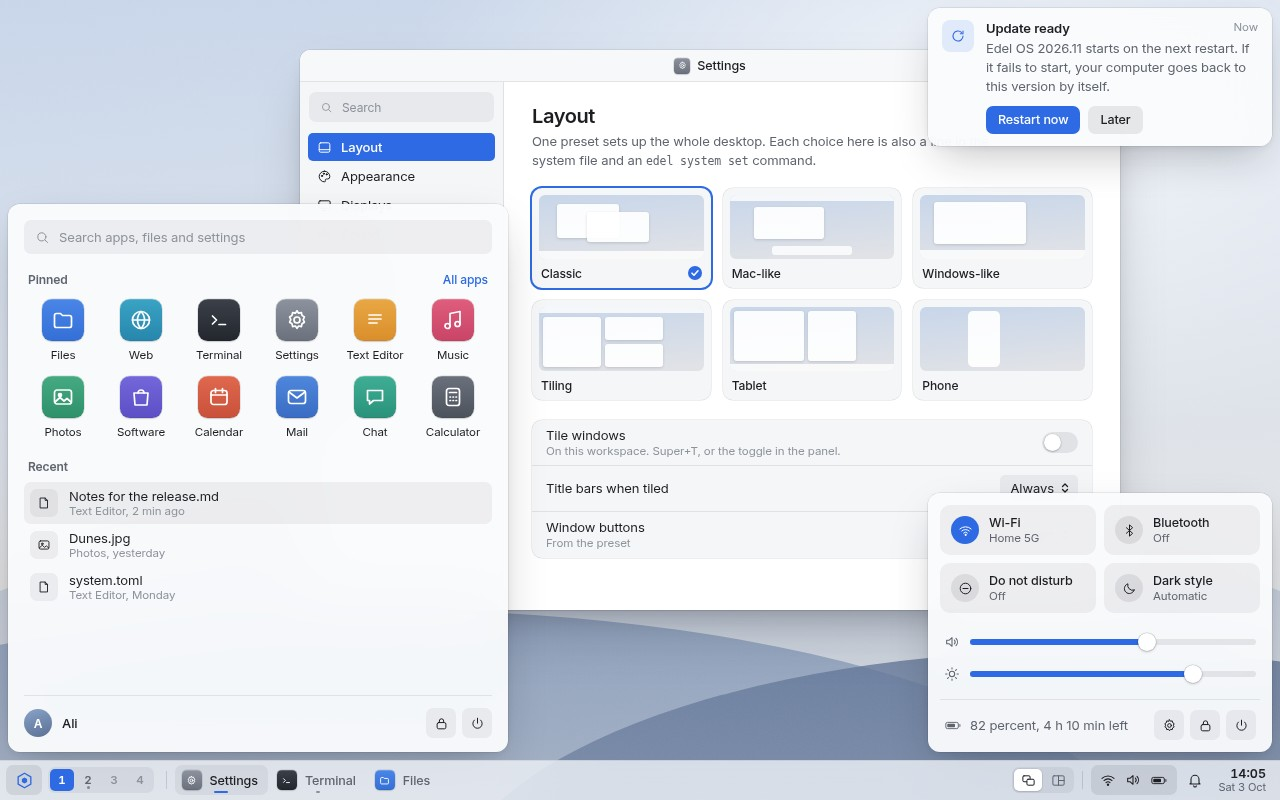
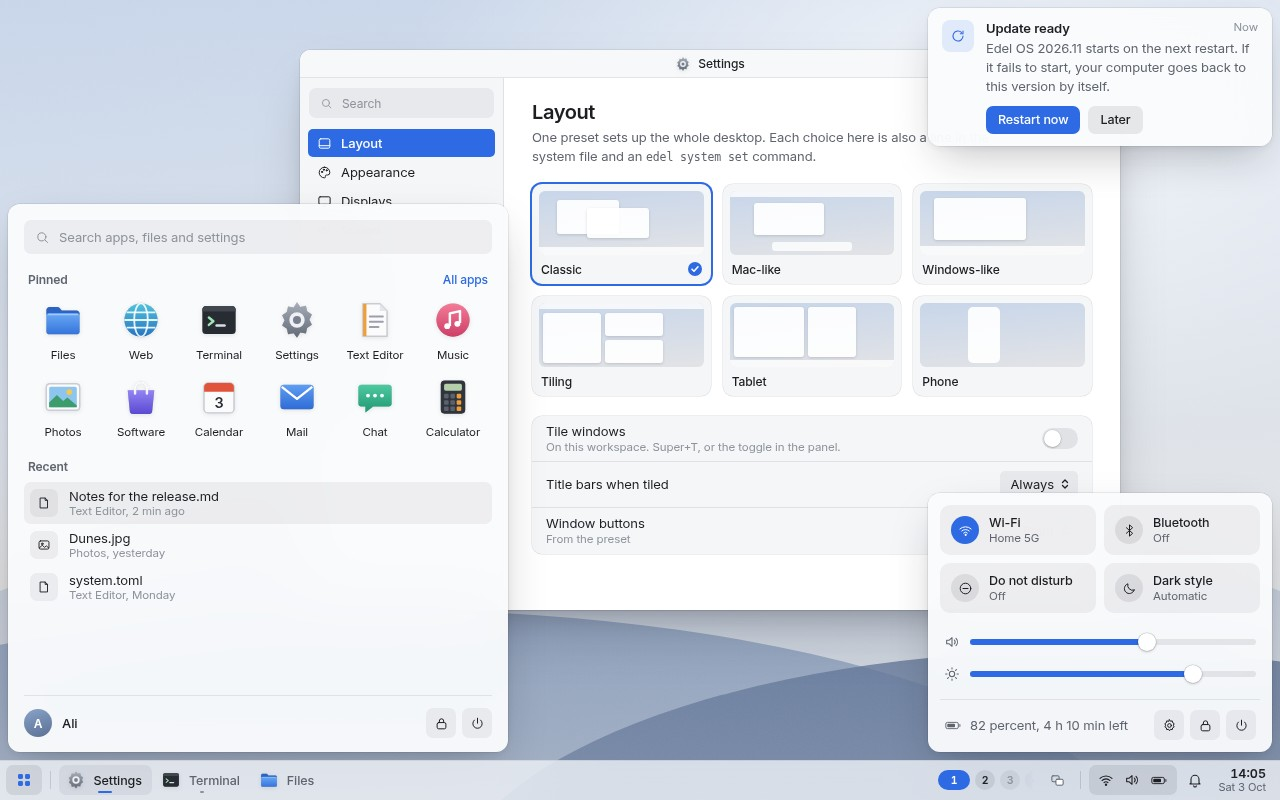
Retouch the mockups after Alimardon's second review
Alimardon asked for the first round's four-square menu button, round
workspace buttons on the right with at most three shown and the rest a
scroll away, one floating or tiling button that changes its icon and
fills when tiled, thinner title bars, and something less off about the
app icons. The icons are now drawn as objects (a folder, a globe, a
gear), each lit from above, instead of glyphs on coloured tiles, and the
panel loses its grey boxes. The plan's default look row and M5.3 follow.

Claude-Session: https://claude.ai/code/session_01BKmt1qoa5mKGyQ4ytiEsKo

diff --git a/docs/mockups/edel-mockups.html b/docs/mockups/edel-mockups.html
@@ -83,15 +83,15 @@ svg { display: block; }
 /* Windows */
 .win { position: absolute; background: var(--win); border-radius: var(--r-win); box-shadow: var(--shadow-win-2); overflow: hidden; }
 .win.focused { box-shadow: var(--shadow-win); }
-.titlebar { height: 32px; background: var(--bar); display: flex; align-items: center; justify-content: center; position: relative; color: var(--text-3); font-weight: 500; font-size: 12.5px; border-bottom: 0.5px solid var(--line); }
+.titlebar { height: 28px; background: var(--bar); display: flex; align-items: center; justify-content: center; position: relative; color: var(--text-3); font-weight: 500; font-size: 12px; border-bottom: 0.5px solid var(--line); }
 .win.focused .titlebar { background: var(--bar-focused); color: var(--text); }
-.titlebar .buttons { position: absolute; right: 6px; top: 0; height: 32px; display: flex; align-items: center; gap: 2px; }
+.titlebar .buttons { position: absolute; right: 5px; top: 0; height: 28px; display: flex; align-items: center; gap: 2px; }
 .titlebar.left .buttons { right: auto; left: 6px; flex-direction: row-reverse; }
-.tb { width: 26px; height: 22px; border-radius: var(--r-sm); display: grid; place-items: center; color: var(--text-2); }
+.tb { width: 24px; height: 20px; border-radius: var(--r-sm); display: grid; place-items: center; color: var(--text-2); }
 .win:not(.focused) .tb { color: var(--text-3); }
 .tb.hot { background: var(--close); color: #fff; }
 .titlebar .title { display: flex; align-items: center; gap: 7px; }
-.winbody { position: absolute; top: 32px; left: 0; right: 0; bottom: 0; }
+.winbody { position: absolute; top: 28px; left: 0; right: 0; bottom: 0; }
 
 /* Panel */
 .panel { position: absolute; left: 0; right: 0; height: 40px; display: flex; align-items: center; padding: 0 6px; gap: 2px; background: var(--material); backdrop-filter: blur(30px) saturate(180%); -webkit-backdrop-filter: blur(30px) saturate(180%); box-shadow: inset 0 0.5px 0 var(--edge); }
@@ -111,20 +111,21 @@ svg { display: block; }
 .clock b { font-weight: 600; font-size: 12.5px; font-variant-numeric: tabular-nums; letter-spacing: 0; }
 .clock small { font-size: 11px; color: var(--text-2); font-variant-numeric: tabular-nums; }
 
-/* Workspaces: numbered buttons, Super+1 to 4. */
-.desks { display: flex; gap: 2px; padding: 2px; border-radius: var(--r-ctl); background: var(--fill); }
-.desk { width: 24px; height: 22px; border-radius: var(--r-sm); display: grid; place-items: center; font-size: 11.5px; font-weight: 600; color: var(--text-3); font-variant-numeric: tabular-nums; position: relative; }
-.desk.busy { color: var(--text-2); }
-.desk.busy::after { content: ""; position: absolute; bottom: 2px; width: 3px; height: 3px; border-radius: 50%; background: currentColor; opacity: .7; }
-.desk.on { background: var(--accent); color: var(--accent-text); }
-.desk.on::after { background: var(--accent-text); }
-/* Floating or tiling, for this workspace: Super+T. */
-.seg { display: flex; gap: 2px; padding: 2px; border-radius: var(--r-ctl); background: var(--fill); }
-.seg .s { width: 28px; height: 22px; border-radius: var(--r-sm); display: grid; place-items: center; color: var(--text-2); }
-.seg .s.on { background: var(--thumb); color: var(--text); box-shadow: var(--shadow-thumb); }
+/* Workspaces: round buttons, the shown one a wider accent pill; at most
+   three at a time (the shown one and its neighbours), the rest a scroll
+   away, hinted by a faded edge. */
+.ws { display: flex; align-items: center; gap: 5px; overflow: hidden; }
+.ws.more-right { -webkit-mask-image: linear-gradient(90deg, #000 calc(100% - 14px), transparent); mask-image: linear-gradient(90deg, #000 calc(100% - 14px), transparent); }
+.ws.more-left { -webkit-mask-image: linear-gradient(270deg, #000 calc(100% - 14px), transparent); mask-image: linear-gradient(270deg, #000 calc(100% - 14px), transparent); }
+.ws .d { flex: none; width: 20px; height: 20px; border-radius: 10px; display: grid; place-items: center; font-size: 10.5px; font-weight: 600; color: var(--text-3); background: var(--fill); font-variant-numeric: tabular-nums; }
+.ws .d.busy { color: var(--text); background: var(--fill-2); }
+.ws .d.on { width: 32px; background: var(--accent); color: var(--accent-text); }
+/* Floating or tiling: one button; its icon changes, and it fills when tiled. */
+.lt { width: 30px; height: 26px; border-radius: var(--r-ctl); display: grid; place-items: center; color: var(--text-2); }
+.lt.tiled { background: var(--accent-soft); color: var(--accent); }
 
-/* App icons: one shape, one light from above, muted colours. */
-.app { border-radius: 23%; display: grid; place-items: center; color: #fff; flex: none; box-shadow: inset 0 0.5px 0 rgba(255,255,255,.35), inset 0 -0.5px 0 rgba(0,0,0,.12), 0 0 0 0.5px rgba(0,0,0,.14), 0 1px 1.5px rgba(0,0,0,.12); }
+/* App icons: objects in their own shapes, lit from above. */
+.app { flex: none; display: block; filter: drop-shadow(0 0.5px 0.6px rgba(0,0,0,.22)) drop-shadow(0 1.5px 2px rgba(0,0,0,.10)); }
 
 /* Materials */
 .menu { position: absolute; background: var(--material-strong); backdrop-filter: blur(34px) saturate(180%); -webkit-backdrop-filter: blur(34px) saturate(180%); border-radius: var(--r-menu); box-shadow: var(--shadow-menu); }
@@ -202,6 +203,7 @@ svg { display: block; }
 <script>
 const st = (w, extra = '') => `<svg width="${w}" height="${w}" viewBox="0 0 24 24" fill="none" stroke="currentColor" stroke-width="1.6" stroke-linecap="round" stroke-linejoin="round"${extra}>`;
 const I = {
+  grid: s => `<svg width="${s||18}" height="${s||18}" viewBox="0 0 24 24" fill="currentColor"><rect x="4" y="4" width="6.6" height="6.6" rx="1.9"/><rect x="13.4" y="4" width="6.6" height="6.6" rx="1.9"/><rect x="4" y="13.4" width="6.6" height="6.6" rx="1.9"/><rect x="13.4" y="13.4" width="6.6" height="6.6" rx="1.9"/></svg>`,
   edel: s => `<svg width="${s||18}" height="${s||18}" viewBox="0 0 24 24" fill="none" stroke="currentColor" stroke-width="1.7" stroke-linejoin="round"><path d="M12 2.8l8 4.6v9.2L12 21.2l-8-4.6V7.4z"/><path d="M12 8.2l3.3 1.9v3.8L12 15.8l-3.3-1.9v-3.8z" fill="currentColor" stroke="none"/></svg>`,
   search: s => `${st(s||15)}<circle cx="11" cy="11" r="6.5"/><path d="M16 16l4 4"/></svg>`,
   wifi: s => `${st(s||17)}<path d="M3 9.5a13 13 0 0 1 18 0"/><path d="M6 12.8a8.5 8.5 0 0 1 12 0"/><path d="M9 16a4 4 0 0 1 6 0"/><circle cx="12" cy="19" r="1" fill="currentColor"/></svg>`,
@@ -237,36 +239,23 @@ const I = {
   floating: s => `${st(s||15)}<rect x="3" y="4.5" width="11.5" height="9.5" rx="1.8"/><rect x="9.5" y="10" width="11.5" height="9.5" rx="1.8" fill="var(--win)"/></svg>`,
   tiling: s => `${st(s||15)}<rect x="3" y="4.5" width="18" height="15" rx="1.8"/><path d="M12 4.5v15M12 12h9"/></svg>`,
 };
-const glyph = {
-  files: '<path d="M3.5 7.5A2 2 0 0 1 5.5 5.5h4l2 2h7a2 2 0 0 1 2 2v8a2 2 0 0 1-2 2h-13a2 2 0 0 1-2-2z"/>',
-  web: '<circle cx="12" cy="12" r="8.5"/><path d="M3.5 12h17M12 3.5c2.5 2.5 3.5 5.5 3.5 8.5s-1 6-3.5 8.5c-2.5-2.5-3.5-5.5-3.5-8.5s1-6 3.5-8.5z"/>',
-  term: '<path d="M5.5 8l4 4-4 4M12 16.5h6.5"/>',
-  settings: '<circle cx="12" cy="12" r="3"/><path d="M12 2.8l1.6 2.4 2.8-.6.6 2.8 2.4 1.6-1.2 2.6 1.2 2.6-2.4 1.6-.6 2.8-2.8-.6-1.6 2.4-1.6-2.4-2.8.6-.6-2.8-2.4-1.6 1.2-2.6-1.2-2.6 2.4-1.6.6-2.8 2.8.6z"/>',
-  text: '<path d="M6 7h12M6 11h12M6 15h8"/>',
-  music: '<path d="M9 18V5.5l10-2V16"/><circle cx="6.5" cy="18" r="2.5"/><circle cx="16.5" cy="16" r="2.5"/>',
-  photos: '<rect x="3.5" y="5" width="17" height="14" rx="2.5"/><circle cx="9" cy="10" r="1.5" fill="#fff"/><path d="M4 17l5-4.5 4 3.5 3-2.5 4 3.5"/>',
-  software: '<path d="M5 8h14l-1 12H6z"/><path d="M9 8a3 3 0 0 1 6 0"/>',
-  calendar: '<rect x="4" y="5.5" width="16" height="14" rx="2.5"/><path d="M4 10h16M8.5 3.5v4M15.5 3.5v4"/>',
-  mail: '<rect x="3.5" y="5.5" width="17" height="13" rx="2.5"/><path d="M4 7l8 6 8-6"/>',
-  chat: '<path d="M4.5 5.5h15v10h-9l-4 3.5v-3.5h-2z"/>',
-  calc: '<rect x="5.5" y="3.5" width="13" height="17" rx="2.5"/><path d="M8.5 7.5h7M9 12h.5M12 12h.5M15 12h.5M9 15.5h.5M12 15.5h.5M15 15.5h.5"/>',
+const lg = (id, a, b) => `<linearGradient id="${id}" x1="0" y1="0" x2="0" y2="1"><stop offset="0" stop-color="${a}"/><stop offset="1" stop-color="${b}"/></linearGradient>`;
+const ICON = {
+  files: `<defs>${lg('gF', '#6aa8f6', '#3474db')}</defs><path d="M2.5 6.3c0-1 .8-1.8 1.8-1.8h4.5c.5 0 1 .2 1.3.6l1.2 1.4h8.4c1 0 1.8.8 1.8 1.8V9H2.5z" fill="#2c63c4"/><rect x="2.5" y="8" width="19" height="12.2" rx="1.8" fill="url(#gF)"/><rect x="3.3" y="8.6" width="17.4" height=".7" rx=".35" fill="#fff" opacity=".4"/>`,
+  web: `<defs>${lg('gW', '#52c3dc', '#2474c2')}</defs><circle cx="12" cy="12" r="9.5" fill="url(#gW)"/><g fill="none" stroke="#fff" stroke-opacity=".88" stroke-width="1.05"><ellipse cx="12" cy="12" rx="3.9" ry="9.5"/><path d="M2.5 12h19M3.8 7.6h16.4M3.8 16.4h16.4"/></g>`,
+  term: `<rect x="2.5" y="4" width="19" height="16" rx="2.2" fill="#272b32"/><path d="M4.7 4h14.6c1.2 0 2.2 1 2.2 2.2v.9h-19v-.9C2.5 5 3.5 4 4.7 4z" fill="#41464f"/><path d="M6.2 10.6l2.6 2.1-2.6 2.1" fill="none" stroke="#9fe3b6" stroke-width="1.4" stroke-linecap="round" stroke-linejoin="round"/><path d="M10.6 15.1h4.6" stroke="#d9dde3" stroke-width="1.4" stroke-linecap="round"/>`,
+  settings: `<defs>${lg('gS', '#a7aeba', '#626a77')}</defs><path d="M12 1.9l1.9 2.6 3.2-.6.7 3.1 2.7 1.9-1.4 2.9 1.4 2.9-2.7 1.9-.7 3.1-3.2-.6L12 22.1l-1.9-2.6-3.2.6-.7-3.1-2.7-1.9 1.4-2.9-1.4-2.9 2.7-1.9.7-3.1 3.2.6z" fill="url(#gS)"/><circle cx="12" cy="12" r="4.4" fill="#eef0f3"/><circle cx="12" cy="12" r="2.3" fill="#788090"/>`,
+  text: `<path d="M5.2 2.8h9.6l4 4v14.4H5.2z" fill="#fbfbfc"/><path d="M5.2 2.8h9.6l4 4v14.4H5.2z" fill="none" stroke="#c9ced6" stroke-width=".7"/><path d="M14.8 2.8v4h4" fill="#e3e6eb"/><rect x="5.2" y="2.8" width="1.9" height="18.4" fill="#ee9f3a"/><path d="M9 10h7.5M9 13h7.5M9 16h5" stroke="#9aa1ac" stroke-width="1.1" stroke-linecap="round"/>`,
+  music: `<defs>${lg('gM', '#f37b98', '#cf3e67')}</defs><circle cx="12" cy="12" r="9.5" fill="url(#gM)"/><path d="M10.2 15.4V8.2l5.8-1.3v6.8" fill="none" stroke="#fff" stroke-width="1.4" stroke-linejoin="round"/><circle cx="8.7" cy="15.5" r="1.7" fill="#fff"/><circle cx="14.5" cy="14.2" r="1.7" fill="#fff"/>`,
+  photos: `<rect x="2.5" y="4.5" width="19" height="15" rx="2" fill="#fbfbfc"/><rect x="2.5" y="4.5" width="19" height="15" rx="2" fill="none" stroke="#c9ced6" stroke-width=".7"/><rect x="4.1" y="6.1" width="15.8" height="11.8" rx="1" fill="#8ec5ef"/><path d="M4.1 15.2l4.4-4.4 3.6 3.5 2.4-2 5.4 4.5v1.1H4.1z" fill="#3d9c6b"/><circle cx="15.6" cy="9.1" r="1.6" fill="#f6c94c"/>`,
+  software: `<defs>${lg('gB', '#9284f3', '#5a4ad2')}</defs><path d="M4.4 8.2h15.2l-1.2 12a1.7 1.7 0 0 1-1.7 1.5H7.3a1.7 1.7 0 0 1-1.7-1.5z" fill="url(#gB)"/><path d="M8.6 10V7.2a3.4 3.4 0 0 1 6.8 0V10" fill="none" stroke="#fff" stroke-opacity=".9" stroke-width="1.4" stroke-linecap="round"/>`,
+  calendar: `<rect x="3.5" y="4" width="17" height="17" rx="2.2" fill="#fbfbfc"/><rect x="3.5" y="4" width="17" height="17" rx="2.2" fill="none" stroke="#c9ced6" stroke-width=".7"/><path d="M5.7 4h12.6c1.2 0 2.2 1 2.2 2.2V9h-17V6.2C3.5 5 4.5 4 5.7 4z" fill="#e2533c"/><text x="12" y="18.4" font-family="Inter Variable, Inter, sans-serif" font-size="8.2" font-weight="650" text-anchor="middle" fill="#2a2e35">3</text>`,
+  mail: `<defs>${lg('gE', '#5f9ef3', '#2f6bd6')}</defs><rect x="2.5" y="5" width="19" height="14" rx="2" fill="url(#gE)"/><path d="M3.3 6.2l8.7 6.9 8.7-6.9" fill="none" stroke="#fff" stroke-width="1.3" stroke-linejoin="round"/>`,
+  chat: `<defs>${lg('gC', '#4fc99f', '#1f9874')}</defs><path d="M4.1 5h15.8c.9 0 1.6.7 1.6 1.6v9.2c0 .9-.7 1.6-1.6 1.6H11l-4.5 3.4v-3.4H4.1c-.9 0-1.6-.7-1.6-1.6V6.6c0-.9.7-1.6 1.6-1.6z" fill="url(#gC)"/><circle cx="8" cy="11.2" r="1.1" fill="#fff"/><circle cx="12" cy="11.2" r="1.1" fill="#fff"/><circle cx="16" cy="11.2" r="1.1" fill="#fff"/>`,
+  calc: `<rect x="5" y="2.5" width="14" height="19" rx="2.2" fill="#30343c"/><rect x="6.9" y="4.4" width="10.2" height="4" rx="1" fill="#b4cfa9"/>${[0, 1, 2].map(r => [0, 1, 2].map(c => `<rect x="${6.9 + c * 3.6}" y="${10.2 + r * 3.6}" width="2.6" height="2.6" rx=".6" fill="${c === 2 ? '#ef9d38' : '#5c626d'}"/>`).join('')).join('')}`,
 };
-// Muted colours, one light from above: lighter at the top by a small step.
-const apps = {
-  files: ['Files', '#4a86e8', '#336fd6'],
-  web: ['Web', '#3aa3c4', '#2786ad'],
-  term: ['Terminal', '#3b4049', '#23262d'],
-  settings: ['Settings', '#8d939e', '#6a717c'],
-  text: ['Text Editor', '#e9a845', '#d98e2b'],
-  music: ['Music', '#e05d7c', '#c94467'],
-  photos: ['Photos', '#45aa82', '#2f9069'],
-  software: ['Software', '#7467db', '#5c4fc6'],
-  calendar: ['Calendar', '#e0684f', '#c9503a'],
-  mail: ['Mail', '#4f87dc', '#3a6cc4'],
-  chat: ['Chat', '#3fae94', '#2a917a'],
-  calc: ['Calculator', '#6b717c', '#4c525c'],
-};
-const app = (k, size = 40) => `<div class="app" style="width:${size}px;height:${size}px;background:linear-gradient(180deg,${apps[k][1]},${apps[k][2]})"><svg width="${Math.round(size * 0.56)}" height="${Math.round(size * 0.56)}" viewBox="0 0 24 24" fill="none" stroke="#fff" stroke-width="${size < 24 ? 2 : 1.7}" stroke-linecap="round" stroke-linejoin="round">${glyph[k]}</svg></div>`;
+const apps = { files: ['Files'], web: ['Web'], term: ['Terminal'], settings: ['Settings'], text: ['Text Editor'], music: ['Music'], photos: ['Photos'], software: ['Software'], calendar: ['Calendar'], mail: ['Mail'], chat: ['Chat'], calc: ['Calculator'] };
+const app = (k, size = 40) => `<svg class="app" width="${size}" height="${size}" viewBox="0 0 24 24">${ICON[k]}</svg>`;
 
 function wall(dark) {
   const grain = '<div class="grain"></div>';
@@ -356,17 +345,32 @@ function settings(selected, dark) {
   </div>`;
 }
 
+// The workspace switcher: at most three round buttons, the shown one and
+// its neighbours; more lie a scroll away, hinted by a faded edge.
+function ws(shown, count, busy = [], big = false) {
+  const start = Math.max(0, Math.min(shown - 1, count - 3));
+  const left = start > 0, right = start + 3 < count;
+  const items = [];
+  for (let n = start - (left ? 1 : 0); n < Math.min(count, start + 3 + (right ? 1 : 0)); n++) items.push(n);
+  const sz = big ? 'width:28px;height:28px;border-radius:14px;font-size:12.5px' : '';
+  const on = big ? 'width:44px' : '';
+  const width = (big ? 44 + 28 * 2 + 10 : 32 + 20 * 2 + 10) + (left ? 14 : 0) + (right ? 14 : 0);
+  return `<div class="ws${right ? ' more-right' : ''}${left ? ' more-left' : ''}" style="width:${width}px">${items.map((n, i) => `<div class="d${n === shown ? ' on' : busy.includes(n) ? ' busy' : ''}" style="${sz};${n === shown ? on : ''}${i === 0 && left ? ';margin-left:' + (big ? -18 : -10) + 'px' : ''}">${n + 1}</div>`).join('')}</div>`;
+}
+// Floating or tiling: one button whose icon changes, filled when tiled.
+const lt = (tiled, size = 15, style = '') => `<div class="lt${tiled ? ' tiled' : ''}" style="${style}">${tiled ? I.tiling(size) : I.floating(size)}</div>`;
+
 // The Classic panel: menu, workspaces, windows; the layout toggle, status and clock.
 function classicPanel(tasks, opts = {}) {
   return `<div class="panel bottom">
-    <div class="pbtn${opts.menu ? ' active' : ''}" style="color:${opts.menu ? 'var(--accent)' : 'var(--text)'};width:36px">${I.edel(19)}</div>
-    <div class="desks" style="margin:0 4px">${[1, 2, 3, 4].map(n => `<div class="desk${n === 1 ? ' on' : n === 2 ? ' busy' : ''}">${n}</div>`).join('')}</div>
+    <div class="pbtn${opts.menu ? ' active' : ''}" style="color:${opts.menu ? 'var(--accent)' : 'var(--text)'};width:36px">${I.grid(18)}</div>
     <div class="sep"></div>
     ${tasks.map(t => `<div class="task${t[2] ? ' focused' : ''}">${app(t[0], 20)}<span>${t[1]}</span>${t[3] === false ? '' : '<div class="ind"></div>'}</div>`).join('')}
     <div class="tray">
-      <div class="seg" title="Floating or tiling, Super+T"><div class="s${opts.tiled ? '' : ' on'}">${I.floating(15)}</div><div class="s${opts.tiled ? ' on' : ''}">${I.tiling(15)}</div></div>
+      ${ws(0, 4, [1])}
+      ${lt(opts.tiled, 15, 'margin-left:6px')}
       <div class="sep"></div>
-      <div class="pbtn${opts.qs ? ' active' : ''}" style="gap:9px;padding:0 9px">${I.wifi(16)}${I.vol(16)}${I.bat(15)}</div>
+      <div class="pbtn${opts.qs ? ' active' : ''}" style="gap:10px;padding:0 9px">${I.wifi(16)}${I.vol(16)}${I.bat(15)}</div>
       <div class="pbtn">${I.bell(16)}</div>
       <div class="clock"><b>14:05</b><small>Sat 3 Oct</small></div>
     </div>
@@ -427,8 +431,8 @@ screens.push(['mac-like', '', `${wall(false)}
   <div class="panel top" style="padding:0 12px;gap:14px">
     <div style="color:var(--text)">${I.edel(16)}</div><b style="font-weight:650">Settings</b><span style="color:var(--text-2)">Edit</span><span style="color:var(--text-2)">View</span>
     <div class="tray" style="gap:6px">
-      <div class="desks" style="background:none;padding:0">${[1, 2, 3, 4].map(n => `<div class="desk${n === 1 ? ' on' : ''}" style="width:20px;height:18px;font-size:10.5px">${n}</div>`).join('')}</div>
-      <div class="seg" style="padding:1px"><div class="s on" style="height:20px;width:24px">${I.floating(14)}</div><div class="s" style="height:20px;width:24px">${I.tiling(14)}</div></div>
+      ${ws(0, 4, [2])}
+      ${lt(false, 14, 'width:26px;height:22px')}
       <div style="display:flex;gap:12px;margin-left:8px;align-items:center">${I.wifi(15)}${I.vol(15)}${I.bat(14)}<span style="font-weight:550;font-variant-numeric:tabular-nums">Sat 3 Oct  14:05</span></div>
     </div>
   </div>${fillets('top', 'rgba(246,247,249,.76)', 30)}
@@ -445,10 +449,10 @@ screens.push(['windows-like', 'dark', `${wall(true)}
   <div class="panel bottom" style="height:46px;gap:4px;padding:0 8px">
     <div class="pbtn" style="width:38px;height:36px;color:var(--accent)">${I.edel(21)}</div>
     <div class="search" style="height:32px;width:220px;font-size:12.5px">${I.search(14)}<span>Search</span></div>
-    <div class="desks" style="margin-left:6px">${[1, 2, 3, 4].map(n => `<div class="desk${n === 1 ? ' on' : n === 3 ? ' busy' : ''}">${n}</div>`).join('')}</div>
-    <div style="display:flex;gap:2px;margin-left:auto;margin-right:auto">${['files', 'web', 'term', 'settings', 'mail', 'music'].map((k, i) => `<div class="task${i === 3 ? ' focused' : ''}" style="padding:0 8px;height:38px">${app(k, 24)}${[0, 2, 3].includes(i) ? '<div class="ind"></div>' : ''}</div>`).join('')}</div>
+        <div style="display:flex;gap:2px;margin-left:auto;margin-right:auto">${['files', 'web', 'term', 'settings', 'mail', 'music'].map((k, i) => `<div class="task${i === 3 ? ' focused' : ''}" style="padding:0 8px;height:38px">${app(k, 24)}${[0, 2, 3].includes(i) ? '<div class="ind"></div>' : ''}</div>`).join('')}</div>
     <div class="tray" style="gap:2px;margin-left:0">
-      <div class="seg"><div class="s on">${I.floating(15)}</div><div class="s">${I.tiling(15)}</div></div>
+      ${ws(0, 4, [2])}
+      ${lt(false, 15, 'margin-left:4px')}
       <div class="pbtn" style="gap:9px;padding:0 9px">${I.wifi(16)}${I.vol(16)}${I.bat(15)}</div>
       <div class="clock" style="padding:0 8px"><b>14:05</b><small>03/10/2026</small></div>
       <div class="pbtn">${I.bell(16)}</div>
@@ -461,10 +465,9 @@ const editor = `<div style="position:absolute;inset:0;background:var(--win);font
 ].map((l, i) => `<div style="display:flex"><span style="width:38px;text-align:right;padding-right:12px;color:var(--text-3)">${i + 1}</span><span style="color:${l[0].startsWith('[') ? 'var(--accent)' : 'var(--text)'}">${l[0]}</span><span style="color:#d6a271;white-space:pre">${l[1]}</span></div>`).join('')}</div>`;
 screens.push(['tiling', 'dark', `${wall(true)}
   <div class="panel top" style="padding:0 8px;gap:8px;height:30px">
-    <div class="desks" style="padding:1px">${[1, 2, 3, 4].map(n => `<div class="desk${n === 1 ? ' on' : n === 2 ? ' busy' : ''}" style="height:20px">${n}</div>`).join('')}</div>
-    <div class="seg" style="padding:1px"><div class="s" style="height:20px;width:24px">${I.floating(14)}</div><div class="s on" style="height:20px;width:24px">${I.tiling(14)}</div></div>
-    <span style="margin-left:8px;color:var(--text-2)">system.toml, Text Editor</span>
-    <div class="tray" style="gap:12px;padding-right:6px">${I.wifi(15)}${I.vol(15)}${I.bat(14)}<span style="font-weight:600;font-variant-numeric:tabular-nums">14:05</span></div>
+    <div style="color:var(--text);padding:0 4px">${I.grid(15)}</div>
+    <span style="margin-left:6px;color:var(--text-2)">system.toml, Text Editor</span>
+    <div class="tray" style="gap:12px;padding-right:6px">${ws(0, 4, [1])}${lt(true, 14, 'width:26px;height:22px')}${I.wifi(15)}${I.vol(15)}${I.bat(14)}<span style="font-weight:600;font-variant-numeric:tabular-nums">14:05</span></div>
   </div>
   ${win(8, 38, 628, 754, 'Terminal', 'term', termFor('tiling'))}
   ${win(644, 38, 628, 373, 'system.toml', 'text', editor, { focused: true, style: 'box-shadow:0 0 0 1.5px var(--accent),var(--shadow-win)' })}
@@ -478,11 +481,11 @@ function tabletScreen() {
     <div class="win" style="position:relative;flex:1;height:100%">${titlebar('Notes for the release.md', 'text', {})}<div class="winbody" style="padding:22px 26px;line-height:1.6;color:var(--text)"><div style="font-size:20px;font-weight:650;letter-spacing:-0.02em;margin-bottom:10px">Release notes</div><div style="color:var(--text-2)">Workspaces arrive: four on the Classic preset, switched from the panel or with Super+1 to 4. Each one floats or tiles on its own.</div><div style="margin-top:12px;color:var(--text-2)">On a tablet, windows tile by default. The toggle in the panel floats them again.</div></div></div>
   </div>
   <div class="panel bottom" style="height:52px;padding:0 12px;gap:6px">
-    <div class="pbtn" style="width:44px;height:40px">${I.edel(22)}</div>
-    <div class="desks" style="padding:3px">${[1, 2, 3, 4].map(n => `<div class="desk${n === 1 ? ' on' : n === 2 ? ' busy' : ''}" style="width:34px;height:30px;font-size:13px">${n}</div>`).join('')}</div>
+    <div class="pbtn" style="width:44px;height:40px">${I.grid(22)}</div>
     <div style="display:flex;gap:6px;margin-left:auto;margin-right:auto">${['files', 'text', 'web', 'mail', 'music', 'settings'].map((k, i) => `<div class="task${i === 0 ? ' focused' : ''}" style="height:42px;padding:0 9px">${app(k, 30)}${i < 2 ? '<div class="ind"></div>' : ''}</div>`).join('')}</div>
     <div class="tray" style="margin-left:0;gap:6px">
-      <div class="seg" style="padding:3px"><div class="s" style="width:38px;height:30px">${I.floating(18)}</div><div class="s on" style="width:38px;height:30px">${I.tiling(18)}</div></div>
+      ${ws(0, 4, [1], true)}
+      ${lt(true, 19, 'width:40px;height:34px;margin-left:4px')}
       <div class="pbtn" style="gap:12px;padding:0 12px;height:40px">${I.wifi(18)}${I.vol(18)}${I.bat(17)}</div>
       <div class="clock"><b style="font-size:14px">14:05</b><small>Sat 3 Oct</small></div>
     </div>
@@ -504,7 +507,7 @@ function tierScene(kind) {
     <div style="position:absolute;inset:0;transform:translateX(${kind === 'full' ? 0 : kind === 'balanced' ? -427 : -854}px);width:1280px">${wall(false)}</div>
     <div class="win focused" style="left:40px;top:70px;width:340px;height:300px;border-radius:${radius}px;${flat ? 'box-shadow:0 0 0 1px rgba(20,24,32,.2)' : ''}">${titlebar('Pictures', 'files', {})}<div class="winbody"><div class="thumbs" style="left:14px;right:14px;top:14px;grid-template-columns:repeat(3,1fr)">${pics.slice(0, 6).map(p => `<div class="thumb"><div class="pic" style="background:linear-gradient(160deg,${p[0]});border-radius:${flat ? 0 : 6}px"></div></div>`).join('')}</div></div></div>
     <div style="position:absolute;left:150px;top:200px;width:220px;height:226px;border-radius:${flat ? 0 : 12}px;background:${menuBg};${blur}${flat ? edge : 'box-shadow:var(--shadow-menu)'};padding:6px;overflow:hidden">${pre}<div style="position:relative">${['Open', 'Open with Photos', 'Rename', 'Copy', 'Move to Trash', 'Properties'].map((m, i) => `<div style="height:34px;display:flex;align-items:center;padding:0 12px;border-radius:${flat ? 0 : 6}px;${i === 1 ? 'background:var(--accent);color:#fff' : ''}">${m}</div>`).join('')}</div></div>
-    <div style="position:absolute;left:0;right:0;bottom:0;height:40px;background:${panelBg};${blur}box-shadow:inset 0 ${flat ? 1 : 0.5}px 0 rgba(20,24,32,${flat ? .16 : .12});display:flex;align-items:center;padding:0 6px;gap:6px;overflow:hidden">${pre}<div style="position:relative;display:flex;align-items:center;gap:4px;width:100%"><div class="pbtn" style="width:34px">${I.edel(18)}</div><div class="desks" style="${flat ? 'border-radius:0' : ''}">${[1, 2, 3].map(n => `<div class="desk${n === 1 ? ' on' : ''}" style="${flat ? 'border-radius:0' : ''}">${n}</div>`).join('')}</div><div class="task focused" style="${flat ? 'border-radius:0' : ''}">${app('files', 20)}<span>Pictures</span><div class="ind"></div></div><div class="clock" style="margin-left:auto"><b>14:05</b><small>Sat 3 Oct</small></div></div></div>
+    <div style="position:absolute;left:0;right:0;bottom:0;height:40px;background:${panelBg};${blur}box-shadow:inset 0 ${flat ? 1 : 0.5}px 0 rgba(20,24,32,${flat ? .16 : .12});display:flex;align-items:center;padding:0 6px;gap:6px;overflow:hidden">${pre}<div style="position:relative;display:flex;align-items:center;gap:4px;width:100%"><div class="pbtn" style="width:34px">${I.grid(17)}</div><div class="task focused" style="${flat ? 'border-radius:0' : ''}">${app('files', 20)}<span>Pictures</span><div class="ind"></div></div><div class="clock" style="margin-left:auto"><b>14:05</b><small>Sat 3 Oct</small></div></div></div>
     ${flat ? '' : fillets('bottom', kind === 'full' ? 'rgba(246,247,249,.72)' : 'rgba(232,235,240,.96)', 40)}
     <div class="tag">${kind === 'full' ? 'Full' : kind === 'balanced' ? 'Balanced' : 'Lite'}</div>
   </div>`;

diff --git a/docs/ROADMAP.md b/docs/ROADMAP.md
@@ -181,7 +181,7 @@ Every milestone ends with the ab-test, boot-test and install-test still green; a
   - [ ] **2c. The window list and minimize.** wlr-foreign-toplevel-management, the task list widget, the minimize button and xdg-shell's minimize, which the task list undoes. Done when: launching a test client adds a panel entry (pixel region).
   - [ ] **2d. The tray.** `org.kde.StatusNotifierWatcher` over zbus in shell-ui and `testclient sni`. Done when: the SNI test item's icon region appears in the screendump.
   - [ ] **2e. Workspace slides.** Switching slides at the tier's slide length and follows a touchpad's three-finger swipe one to one, settling with a spring.
-- [ ] **3. Launcher and switcher.** One private protocol `edel-shell-v1` (compositor to shell-ui: show launcher, switcher step, hide); the launcher reads the XDG `.desktop` files itself (no GLib in shell-ui) with search, and grows out of its panel button (REVIEW-shells.md); Alt-Tab list; the presets gain the launcher's style; the layout toggle, a panel widget showing whether the shown workspace floats or tiles and switching it as Super+T does (the policy read from the state file, the switch sent over `edel-shell-v1`), sits in every desktop preset's panel by default, next to the workspace buttons (M5.2), so a person who does not know the keys can tile with one click ([mockups](mockups/README.md); asked by Alimardon on 2026-10-03).
+- [ ] **3. Launcher and switcher.** One private protocol `edel-shell-v1` (compositor to shell-ui: show launcher, switcher step, hide); the launcher reads the XDG `.desktop` files itself (no GLib in shell-ui) with search, and grows out of its panel button (REVIEW-shells.md); Alt-Tab list; the presets gain the launcher's style; the layout toggle, one panel button whose icon shows whether the shown workspace floats or tiles, filled when it tiles, and switching it as Super+T does (the policy read from the state file, the switch sent over `edel-shell-v1`), sits in every desktop preset's panel by default, next to the workspace buttons (M5.2c), so a person who does not know the keys can tile with one click ([mockups](mockups/README.md); asked by Alimardon on 2026-10-03).
   Done when: `qmp.py key meta_l` shows the launcher region colour; `type foot` and Return gives `mapped window foot`; Alt-Tab shows the switcher region; a `qmp.py click` on the layout toggle logs `windows now tiling` and the toggle's region changes.
 - [ ] **4. Mac-like, Windows-like and Tiling presets.** `presets/*.toml`; `edel system set shell.preset=NAME`; dock widget with auto-hide; the presets gain the dock and the title bar buttons' side (left or right); compositor and shell-ui reload live; the same core shortcuts in every preset; the panels are a setting as well: `[[shell.panels]]` in the system file replaces the preset's panels, so a person adds, moves or removes any widget, the workspace buttons and the layout toggle included, without a preset of their own, and the Layout page edits it (M5.6; ADR-008: a key the file sets wins over the preset).
   Done when: cargo tests parse every preset, reject format 2 and check the core shortcut set; desktop-test applies each preset and uploads `preset-NAME.png` into the step summary; pixel checks: Mac-like has the panel on top, a dock and buttons on the left; Windows-like has the panel at the bottom, buttons on the right and a start-style launcher button at the left edge. Notes: the per-preset images are what Alimardon reviews when they are back. An unknown `shell.preset` (dropped by a later release, or a typo in a hand-edited file) loads Classic and is reported by `edel system diff`, while `check`, `set` and Settings refuse it and list the known presets, with a cargo test for both (ADR-008).
@@ -388,7 +388,7 @@ Alimardon can overrule any of these by commenting; Claude then updates the plan 
 | Window animations | Full: open 200 ms growing from 90 percent, close 150 ms, slide 200 ms; Balanced: 150 ms from 95 percent, 112 ms, 150 ms; Lite: fades only, 100 ms and 75 ms; ease-out cubic; reduced motion keeps the fades, off keeps nothing (M5.11b) | Instant and Beautiful: short enough never to make anyone wait, long enough to show where a window came from and went; one table in `animation.rs` |
 | Presets | Built into `edel`'s library from `presets/NAME.toml`, one file each, read strictly by the tests and never written on a machine; a key joins the format with the step that first reads it; an unknown `shell.preset` is Classic, with a note (M5.1c) | Simple and Reliable: one copy that every part reads with one function, and no file on the machine that can go missing or drift from the release |
 | Workspaces | A fixed number from the preset, Classic four, spanning every screen; each keeps its own policy and stacking order; Super+1 to 9 show one and Super+Shift+1 to 9 send the focused window there, on top; a hidden workspace's windows get no frame callbacks; a preset with fewer moves the windows of those that go to the last that stays (M5.2a) | Simple and Efficient: Cinnamon's model, with no workspace made or removed behind a person's back, and nothing drawn for what is not shown; a dynamic model waits for a preset that asks for it |
-| Default look | [docs/mockups](mockups/README.md)' second round: corners a little rounded, never pill-shaped (windows 10 px, menus 12, controls 7, square on Lite), soft layered shadows from one light, one calm blue accent, Inter, muted app-icon colours, light and dark both first-class; every desktop preset's panel shows the workspace buttons and the layout toggle (M5.3, M5.5) | Beautiful and Versatile: a calm, polished default that developers, office workers, gamers, server admins and people of every age can live with, and every value a token anyone can change (M5.12); asked by Alimardon on 2026-10-03 |
+| Default look | [docs/mockups](mockups/README.md)' second round: corners a little rounded, never pill-shaped (windows 10 px, menus 12, controls 7, square on Lite), soft layered shadows from one light, one calm blue accent, Inter, muted app-icon colours, light and dark both first-class; every desktop preset's panel shows, towards its end, the round workspace buttons (at most three at once, the shown one and its neighbours, the rest a scroll away) and one layout button whose icon changes and which fills when tiled (M5.2c, M5.3, M5.5); title bars stay 28 px; app icons are drawn as objects, not glyphs on tiles | Beautiful and Versatile: a calm, polished default that developers, office workers, gamers, server admins and people of every age can live with, and every value a token anyone can change (M5.12); asked by Alimardon on 2026-10-03 |
 | Shortcuts | Close Super+Q, launcher Super, switcher Alt+Tab, tiling Super+T, terminal Ctrl+Alt+T (foot until `defaults.terminal`, M6.10), screenshot Print, lock Super+L, workspace N Super+N; close, launcher and lock are ways out that always keep keys; keys match where a Latin layout has them (M5.13a) | Functional and Versatile: the Classic preset's keys, close to Cinnamon's and GNOME's, until the presets ship their own (M5.4); one table in `shortcuts.rs` |
 | Effect tiers | Lite on a software renderer, at most Balanced on battery, else Full; a frame misses when it takes over three quarters of the screen's refresh interval to draw, and 5 misses among the last 60 frames drop one tier, never raised again within the session (M5.11a) | Instant first: a slow machine sheds effects within a second of struggling; the thresholds are a guess until `edel report` from Alimardon's laptop, and live in one place (`effects.rs`) |
 | XWayland | xwayland-satellite, started by the compositor when the first X11 app connects to the display it holds, and left running until the session ends; only in images with the `xwayland` feature; X11 windows get our bar unless they draw their own (M4.7a) | Nothing runs and no memory goes to X11 on a desktop without X11 apps (Efficient: about 45 MiB otherwise); an X11 crash stays out of the compositor (Reliable); no X11 window manager in our code (Simple). Traded off: one more process hop for X11 apps' frames, which no measurement has shown to matter |
@@ -443,7 +443,7 @@ RAUC, ostree or systemd; a shell extension API; a theme engine or third-party th
 
 Dated entries, newest first. Format: `YYYY-MM-DD: what changed, why, which PR`.
 
-- 2026-10-03: the target look's mockups kept in `docs/mockups/`, retouched after Alimardon's review of the first round (a little sharper, calm and polished rather than playful, welcoming to everyone); planned with them: the workspace buttons and a layout toggle (floating or tiling, as Super+T) in every desktop preset's panel by default (M5.3), the panels as a setting, `[[shell.panels]]` (M5.4), the look as token values (M5.5) and `appearance.radius` (M5.12), Tablet and Phone tiling by default (M9.4) and the preset following a change of form factor (M9.3); new default row "Default look". Asked by Alimardon. PR #68.
+- 2026-10-03: the target look's mockups kept in `docs/mockups/`, retouched after Alimardon's review of the first round (a little sharper, calm and polished rather than playful, welcoming to everyone), and again after the second review (the four-square menu button, round workspace buttons on the right with at most three shown, one floating or tiling button, 28 px title bars, app icons drawn as objects); planned with them: the workspace buttons and a layout toggle (floating or tiling, as Super+T) in every desktop preset's panel by default (M5.3), the panels as a setting, `[[shell.panels]]` (M5.4), the look as token values (M5.5) and `appearance.radius` (M5.12), Tablet and Phone tiling by default (M9.4) and the preset following a change of form factor (M9.3); new default row "Default look". Asked by Alimardon. PR #68.
 - 2026-10-03: M8.11 added: once before the first public release, the bug reports of the projects nearest each part are sorted into kinds of mistake and checked against our code, each kind we are open to getting a test and a fix (`docs/REVIEW-bugs.md`); not done at every step, so development stays fast. Asked by Alimardon. PR #67.
 - 2026-10-03: M5.2 split into 2a (workspaces in the compositor), 2b (ext-workspace-v1 and the switcher), 2c (the window list and minimize), 2d (the tray) and 2e (workspace slides); 2a done: `edel_compositor::desks` (tested) and `workspaces.rs`, the presets' `[workspaces] count` (Classic four, fixed), `move_to_workspace_1` to `9` on Super+Shift+1 to 9, `shell.tiling` for every workspace and Super+T for the shown one, `workspace` in the state file, `desktop-test workspaces`; windows opening on the pointer's screen moved to 2b; `relayout` keeps the stacking order. PR #65.
 - 2026-10-03: M5.11b done, window animations, and with it M5.11: `animation.rs` (tested) and `animate.rs`; `appearance.motion` supported from M5.11b instead of M5.12, since the animations honour it; CI's desktop session forced to the Full tier, the heaviest, with the greeter checking llvmpipe's own pick; the done-when's "a forced Full tier under llvmpipe logs the drop" met by 11a's cargo tests, as llvmpipe with KVM keeps up with Full; workspace animations moved to M5.2, where workspaces arrive; the "Window animations" default row. PR #56.

diff --git a/docs/mockups/README.md b/docs/mockups/README.md
@@ -3,13 +3,15 @@
 Pictures of where the Edel shell's look is heading. They are not
 screenshots and not binding: the real values are design tokens
 (`design/tokens.toml`, M5.5), and a person can change every one of them
-(M5.12). This is the second round, retouched on 2026-10-03 after
-Alimardon's review of the first: a little sharper, calm and polished
-rather than playful, and welcoming to everyone by default.
+(M5.12). This is the third round, from 2026-10-03, after two reviews by
+Alimardon: a little sharper, calm and polished rather than playful, and
+welcoming to everyone by default; the menu button's four squares, round
+workspace buttons on the right, one floating or tiling button, thinner
+title bars and app icons drawn as objects came with the second review.
 
 | Picture | What it shows |
 |---|---|
-| [classic.jpg](classic.jpg) | Classic, the default, light: a panel along the bottom with the menu, workspace buttons 1 to 4, the windows, the floating or tiling toggle, status and clock |
+| [classic.jpg](classic.jpg) | Classic, the default, light: a panel along the bottom with the menu and the windows, then the workspace buttons, the floating or tiling button, status and clock |
 | [classic-dark.jpg](classic-dark.jpg) | The same in the dark scheme |
 | [classic-menus.jpg](classic-menus.jpg) | The launcher, quick settings and a notification, over the Settings app's Layout page |
 | [mac-like.jpg](mac-like.jpg) | Mac-like: a bar on top, a dock, window buttons on the left |
@@ -26,7 +28,14 @@ What the look is made of, each a token:
 - soft layered shadows from one light above, and hairline edges;
 - one calm blue accent, light and dark both first-class;
 - Inter in sentence case, tabular figures for the clock;
-- app icons in one shape with muted colours and one light from above;
+- the workspace switcher: round buttons, the shown workspace a wider
+  accent pill, at most three at once (the shown one and its neighbours),
+  the rest a scroll away behind a faded edge, sliding as it scrolls;
+- one floating or tiling button, its icon changing and its background
+  filling when the workspace tiles;
+- title bars 28 px high, as the compositor draws them;
+- app icons drawn as objects, a folder, a globe, a gear, each lit from
+  above, never a glyph on a coloured tile;
 - frosted panels and menus on Full, the wallpaper blurred once on
   Balanced, solid colours on Lite.
 
